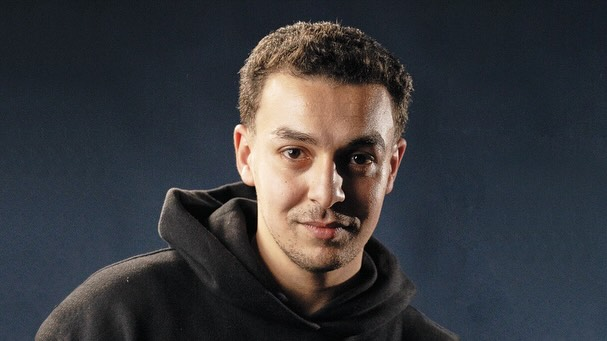
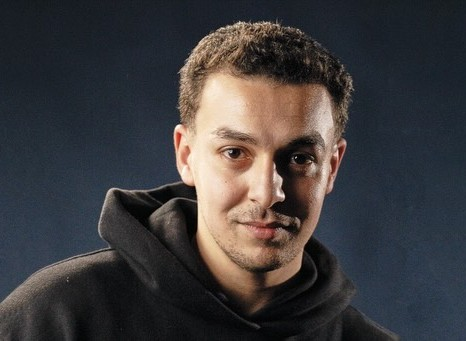
Fix image paths

Changed region(s): [[0.0, 0.0587, 0.8712, 1.0]]

diff --git a/data/content.ts b/data/content.ts
@@ -249,7 +249,7 @@ export const projects: Project[] = [
       "Directed testimonial and proof-driven content to build trust fast.",
       "Coordinated launch-week content across every platform simultaneously.",
     ],
-    video: "https://pub-30b255dd2dc34159ba4c8c0ff254a3f4.r2.dev/eng.mp4",
+    video: "https://pub-30b255dd2dc34159ba4c8c0ff254a3f4.r2.dev/Eng.mp4",
     poster: "",
   },
 